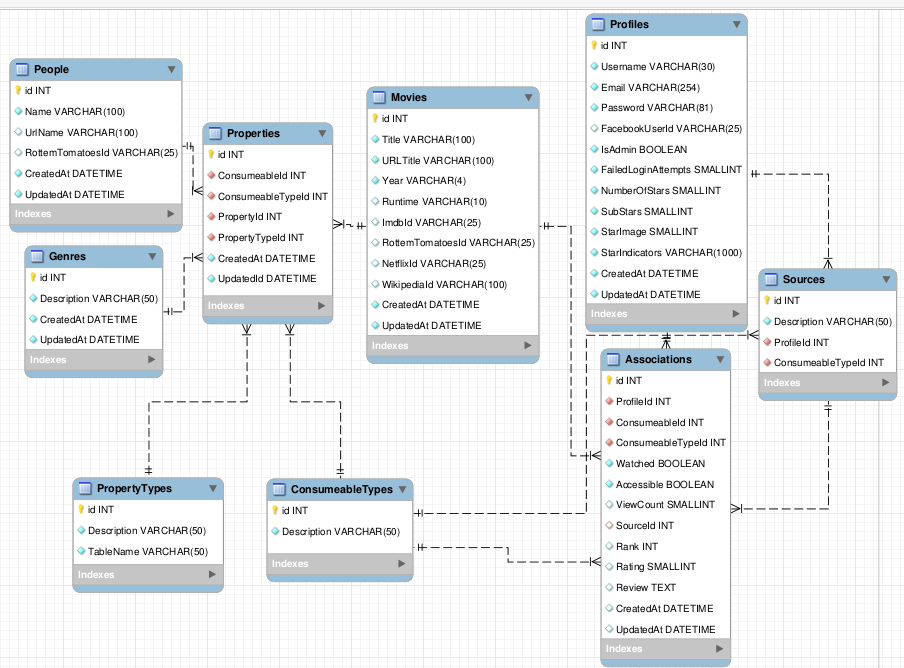
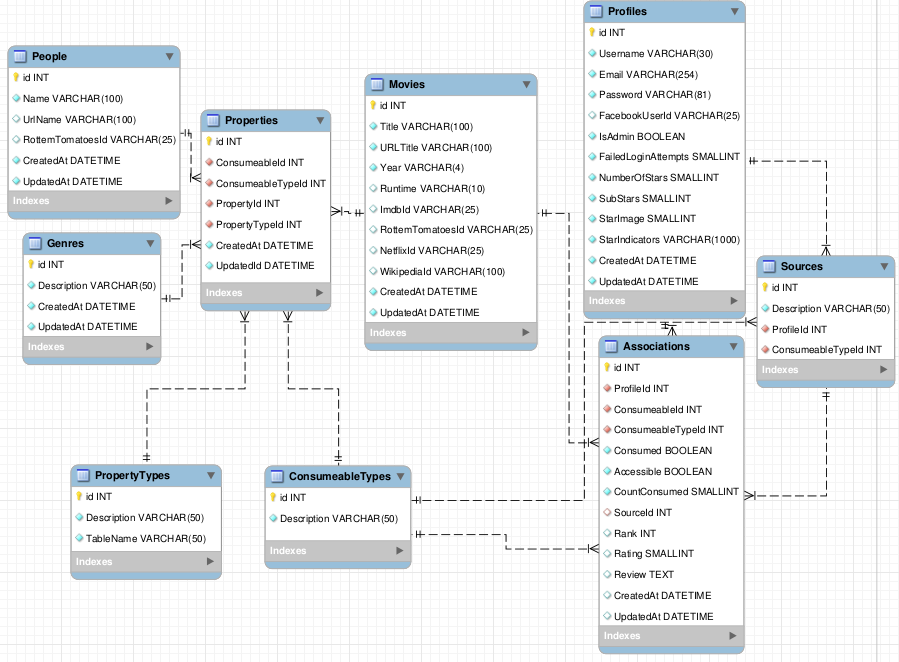
Add support for count consumed

diff --git a/pref/webapp/templates/movie/view.html b/pref/webapp/templates/movie/view.html
@@ -232,18 +232,18 @@
 						<br />
 					{% endif %}
 					<div class="row">
-						<div class="span2">
+						<div class="span1">
 							{% if association.Consumed %}
-								<input type="checkbox" name="watched" id="watched" value="Watched" checked /> Watched
+								<input type="checkbox" name="watched" id="watched" value="Watched" checked /> Seen
 							{% else %}
-								<input type="checkbox" name="watched" id="watched" value="Watched" /> Watched
+								<input type="checkbox" name="watched" id="watched" value="Watched" /> Seen
 							{% endif %}
 						</div>
-						<div class="span2">
+						<div class="span1">
 							{% if association.Accessible %}
-								<input type="checkbox" name="accessible" id="accessible" value="Accessible" checked /> Accessible
+								<input type="checkbox" name="accessible" id="accessible" value="Accessible" checked /> Access
 							{% else %}
-								<input type="checkbox" name="accessible" id="accessible" value="Accessible" /> Accessible
+								<input type="checkbox" name="accessible" id="accessible" value="Accessible" /> Access
 							{% endif %}
 						</div>
 						{% if association.Accessible %}
@@ -253,6 +253,11 @@
 							{% else %}
 								<input type="text" autocomplete="off" data-provide="typeahead" data-items="2" data-source='["{{sources|join:'","'}}"]' name="source" id="source" placeholder="Source" />
 							{% endif %}
+						{% endif %}
+						{% if association.Consumed %}
+							<div class="span2">
+								Viewed: <input type="text" class="input-mini" name="view_count" id="view_count" value="{{association.CountConsumed}}" /> {% if association.ViewCount == 1 %}time{% else %}times{% endif %}
+							</div>
 						{% endif %}
 					</div>
 					<br />

diff --git a/pref/webapp/views/movie.py b/pref/webapp/views/movie.py
@@ -214,8 +214,9 @@ def view(request, urltitle):
 					PATH: webapp.views.movie.view urltitle; METHOD: none; PARAMS: get - assoc,add; MISC: none;
 					*****************************************************************************'''
 					watched = True if request.GET.get('seen') else False
+					viewcount = 1 if watched else 0
 					profile = Profiles.objects.get(id=logged_in_profile_info['id'])
-					association = Associations(ProfileId = profile, ConsumeableId = movie,  ConsumeableTypeId = type_dict['CONSUMEABLE_MOVIE'], Consumed = watched, Accessible = False, CreatedAt = datetime.now(), UpdatedAt = datetime.now())
+					association = Associations(ProfileId = profile, ConsumeableId = movie,  ConsumeableTypeId = type_dict['CONSUMEABLE_MOVIE'], Consumed = watched, Accessible = False, CountConsumed = viewcount, CreatedAt = datetime.now(), UpdatedAt = datetime.now())
 					association.save()
 					associate_logger.info(profile.Username + ' Associated ' + movie.UrlTitle + ' Success')
 					set_msg(request, 'Movie Associated!', movie.Title + ' has been added to your list of movies. Please check that the information on this page is accurate as Pref relies on user feedback to correct errors. If you notice an error, such as an actor with a similar (same) name to a different actor being shown here, click on the offending piece of information and click on the correction link to let Pref know about it. Thanks.', 'success')
@@ -229,6 +230,7 @@ def view(request, urltitle):
 					if not association.Consumed:
 						association.Consumed = True
 						association.CreatedAt = datetime.now()
+					association.CountConsumed = association.CountConsumed + 1
 					association.UpdatedAt = datetime.now()
 					association.save()
 					associate_logger.info(logged_in_profile_info['username'] + ' Association with ' + movie.UrlTitle + ' Update Success')
@@ -249,6 +251,7 @@ def view(request, urltitle):
 					elif association.Consumed and not request.POST.get('watched') == 'Watched':
 						association.CreatedAt = None
 						association.UpdatedAt = None
+						association.CountConsumed = 0
 						association.Rank = None
 						association.Rating = None
 						association.Review = None
@@ -288,6 +291,7 @@ def view(request, urltitle):
 							except Exception:
 								pass
 						association.Review = request.POST.get('review')
+						association.CountConsumed = int(request.POST.get('view_count')) if request.POST.get('view_count') and request.POST.get('view_count').isdigit() else association.CountConsumed
 					# Clear source information if no longer accessible or update it with new source object
 					old_source = None
 					if association.SourceId:

diff --git a/pref/webapp/models.py b/pref/webapp/models.py
@@ -178,6 +178,7 @@ class Associations(models.Model):
 	ConsumeableTypeId = models.ForeignKey(ConsumeableTypes,related_name='+')
 	Consumed = models.BooleanField()
 	Accessible = models.BooleanField()
+	CountConsumed = models.PositiveSmallIntegerField()
 	SourceId =  models.ForeignKey(Sources,related_name='+',null=True,blank=True)
 	Rank = models.PositiveIntegerField(null=True,blank=True)
 	Rating = models.PositiveSmallIntegerField(null=True,blank=True)
@@ -186,6 +187,9 @@ class Associations(models.Model):
 	UpdatedAt = models.DateTimeField(null=True)
 	
 	def clean(self):
+		data = self.CountConsumed
+		if data and not (data >= 0):
+			raise ValidationError("Rating must be a positive integer.")
 		data = self.Rating
 		if data and not (data >= 0 or data <= 100):
 			raise ValidationError("Rating must be an integer between 1 and 100 (inclusive).")
